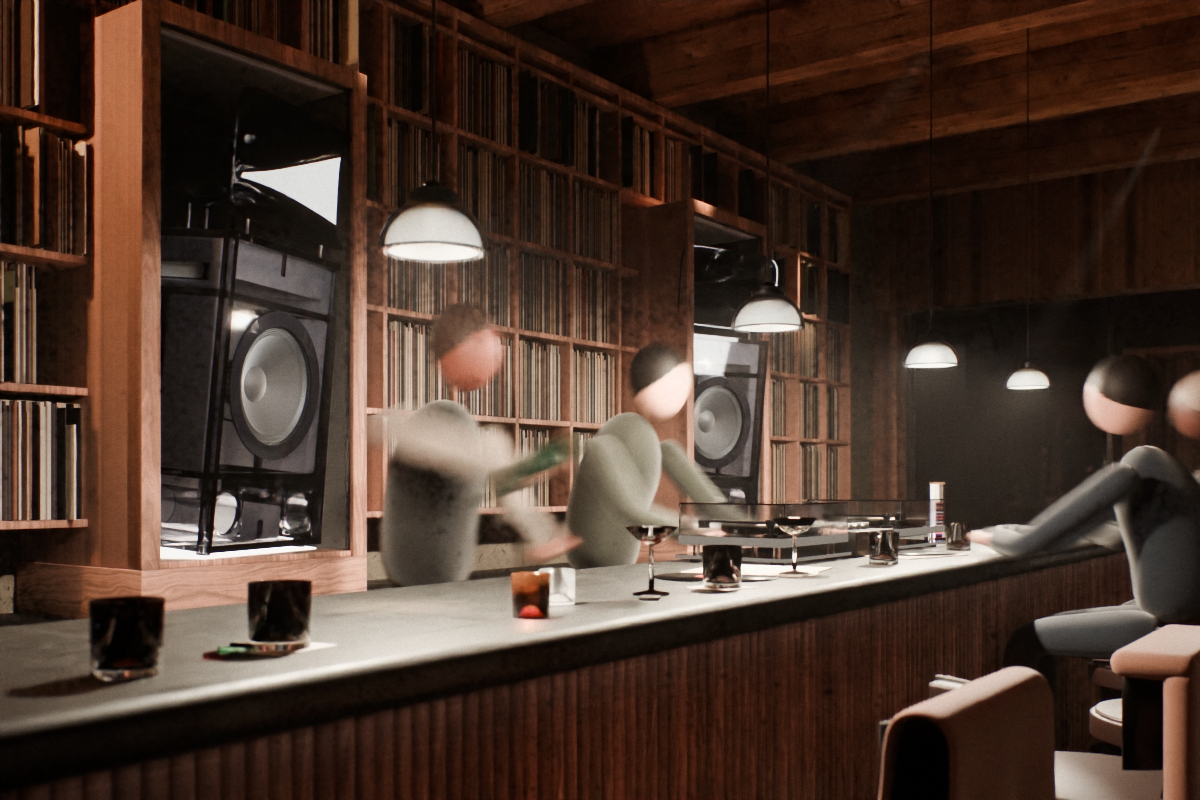
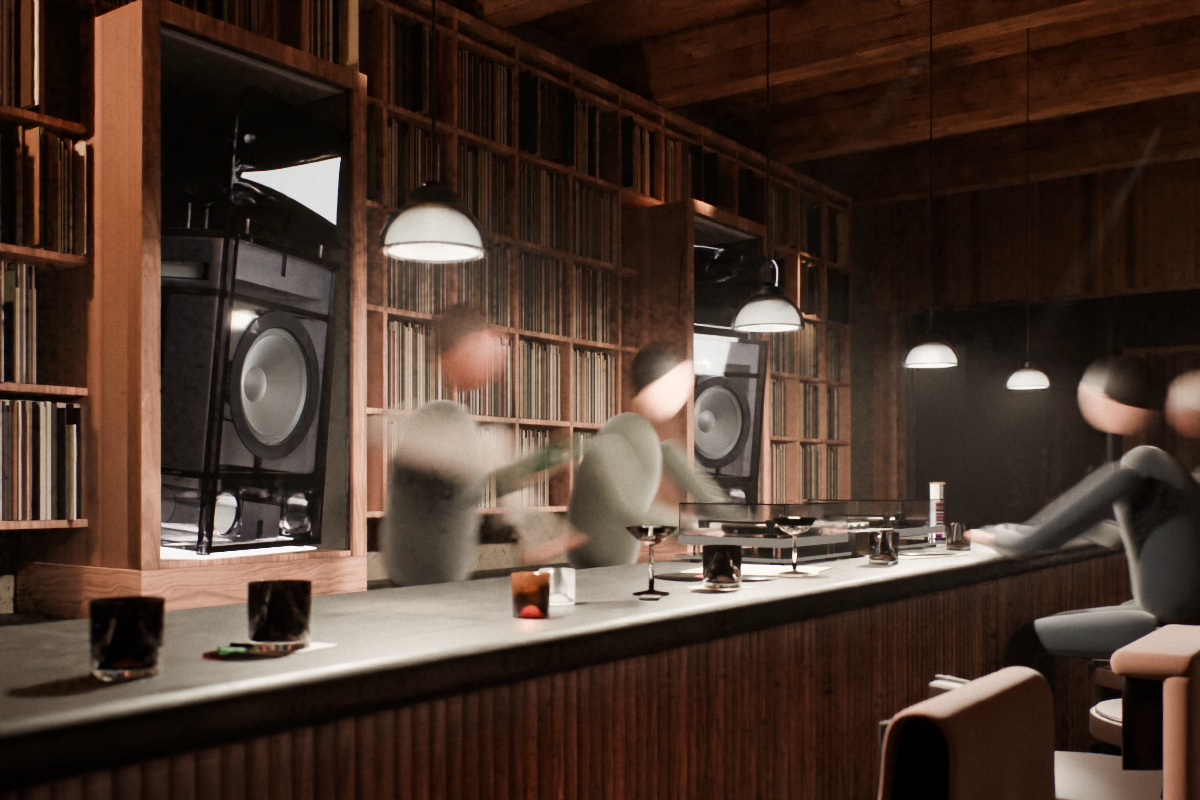
Planet EARF r40: p2b bar proof; the door's people on a full shutter, the near Core dimmer
Claude-Session: https://claude.ai/code/session_01F92PeyfLNoJKA3GtzQwjAe

diff --git a/spinoffs/barkhorn/planet/r40/r40_shots.py b/spinoffs/barkhorn/planet/r40/r40_shots.py
@@ -92,7 +92,8 @@ LISTEN_PEOPLE = [person(9, 'tub', [tx, ty, RP.ZONE['z']], _toward(tx, ty), RP.TU
                         cloth='#1C2230', sleeve='#1C2230')]
 
 VIEWS = {
-    'door-mother': dict(people=BAR_PEOPLE[:1] + BAR_PEOPLE[2:] + BANQ_PEOPLE[1:],          # p2: two at the counter
+    # p2b: from the door the people are 5 to 9 m off, so a half shutter left them sharp dummies: the full one here
+    'door-mother': dict(people=BAR_PEOPLE[:1] + BAR_PEOPLE[2:] + BANQ_PEOPLE[1:], shutter=1.0,   # p2: two at the counter
                         settings=dict(altar_w=230.0, altar_cone=20.0, listen_key=3.0, exposure=4.4, wb=2850,
                                       floor_coat=0.15)),
     'bar': dict(people=BAR_PEOPLE + BANQ_PEOPLE[:1],
@@ -104,8 +105,9 @@ VIEWS = {
                       # sleeve under the Core in front, the listener mid-ground
                       camera={'position': [11.90, 3.15, 1.10], 'target': [16.5, 3.0, 1.0], 'lens_mm': 30, 'level': True,
                               'fstop': 2.8, 'focus': [16.3, 3.0, 1.0]},
-                      settings=dict(altar_w=50.0, altar_cone=30.0, orb_pool=12.0, orb_trim=0.08, exposure=4.7, haze=0.004, niche_strip=0.06,
+                      settings=dict(altar_w=50.0, altar_cone=30.0, orb_pool=3.0, orb_trim=0.08, exposure=4.7, haze=0.004, niche_strip=0.06,
                                     listen_key=1.2, listen_rim=6.0),
+                      orb_shade=0.3,
                       life=dict(rocks=[[round(RP.TUB_TABLES[0][0] - 0.06, 3), round(RP.TUB_TABLES[0][1] + 0.07, 3),
                                         round(RP.ZONE['z'] + RP.TUB_TABLE['h'], 3), 0.022, 1, '#B8641C']],
                                 coats=[[round(RP.TUBS[1][0] - 0.30, 3), round(RP.TUBS[1][1], 3), round(RP.ZONE['z'] + 0.62, 3), 90.0, 0.36]])),
@@ -126,9 +128,12 @@ def shot(view):
     finally:
         v39['camera'], v39['settings'], v39['retouch'] = saved
     s['set']['props'] += [{'kind': 'kit', 'shape': 'ext', 'path': KIT40, 'fn': 'boards'},
-                          {'kind': 'kit', 'shape': 'ext', 'path': KIT40, 'fn': 'figures', 'people': vw['people'], 'shutter': SHUTTER}]
+                          {'kind': 'kit', 'shape': 'ext', 'path': KIT40, 'fn': 'figures', 'people': vw['people'], 'shutter': vw.get('shutter', SHUTTER)}]
     if vw.get('life'):
         s['set']['props'].append({'kind': 'kit', 'shape': 'ext', 'path': T39.KIT39, 'fn': 'life', 'seed': 402, **vw['life']})
+    for o in s['set']['props']:                  # p2b: the Core nearest the lens blew out at any trim; its shade dimmer
+        if o.get('fn') == 'orb' and vw.get('orb_shade'):
+            o['shade_glow'] = round(o.get('shade_glow', 0.1) * vw['orb_shade'], 4)
     s['title'] = s['title'].replace('(round 39)', '(round 40)')
     return s
 
